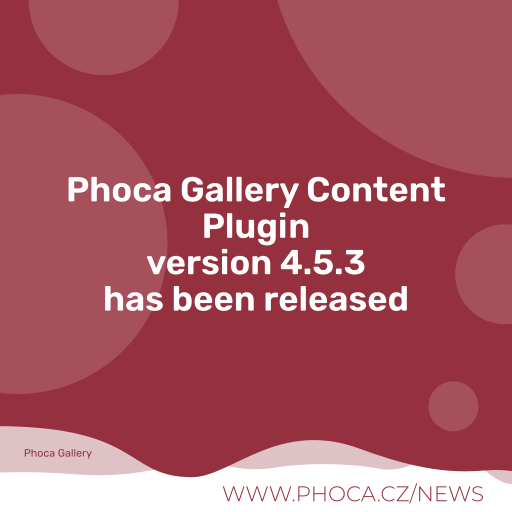
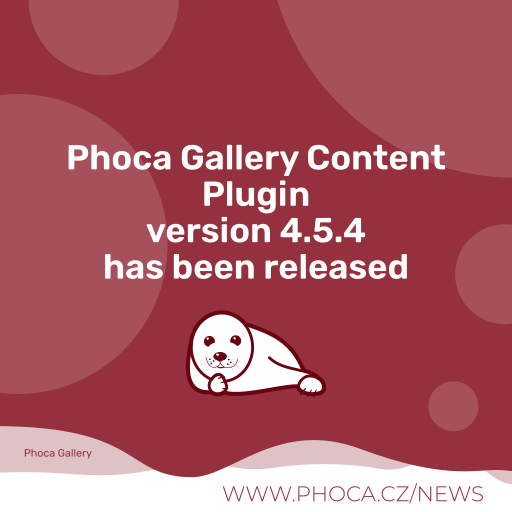
4.5.4

Changed region(s): [[0.125, 0.2812, 0.875, 0.7812]]

diff --git a/phocagallery.php b/phocagallery.php
@@ -12,6 +12,7 @@
 use Joomla\CMS\Component\ComponentHelper;
 use Joomla\CMS\Factory;
 use Joomla\CMS\HTML\HTMLHelper;
+use Joomla\CMS\Language\Text;
 use Joomla\CMS\Layout\FileLayout;
 use Joomla\CMS\Router\Route;
 use Joomla\CMS\Uri\Uri;
@@ -66,7 +67,7 @@ class plgContentPhocaGallery extends JPlugin
 
         $db       = Factory::getDBO();
         $document = Factory::getDocument();
-        $user		= JFactory::getUser();
+        $user		= Factory::getUser();
         //$component	= 'com_phocaphoto';
         //$paramsC		= JComponentHelper::getParams($component) ;
         //$param		= (int)$this->params->get( 'medium_image_width', 100 );
@@ -125,6 +126,7 @@ class plgContentPhocaGallery extends JPlugin
                 $view = '';
                 $id   = 0;
                 $max  = 0;
+                $imageid				= 0;
                 $limitstart = 0;
                 $limitcount = 0;
                 $imageordering = 1;
@@ -150,6 +152,7 @@ class plgContentPhocaGallery extends JPlugin
                     if ($values[0] == 'view') {                 $view = $values[1];}
                     else if ($values[0] == 'id') {              $id = $values[1];}
                     else if ($values[0] == 'categoryid') {      $id = $values[1];}// Backward compatibility - categoryid is alias for id
+                    else if($values[0]=='imageid')			{$imageid				= $values[1];}
                     else if ($values[0] == 'max') {             $max = $values[1];}
                     else if ($values[0] == 'limitstart') {             $limitstart = $values[1];}
                     else if ($values[0] == 'limitcount') {             $limitcount = $values[1];}
@@ -348,9 +351,9 @@ class plgContentPhocaGallery extends JPlugin
 
                                     $data_outcome->rightdisplaykey				= $rightDisplayKey;
 
-                                    if (isset($v->image_id) && $item->image_id > 0) {
+                                    if (isset($v->image_id) && $v->image_id > 0) {
                                         // User has selected image in category edit
-                                        $selectedImg = PhocaGalleryImageFront::setFileNameByImageId((int)$item->image_id);
+                                        $selectedImg = PhocaGalleryImageFront::setFileNameByImageId((int)$v->image_id);
 
 
                                         if (isset($selectedImg->filename) && ($selectedImg->filename != '' && $selectedImg->filename != '-')) {
@@ -501,8 +504,16 @@ class plgContentPhocaGallery extends JPlugin
                     $limit = '';
                     $where = '';
 
+                    // Only one image
+                    if ((int)$imageid > 0) {
+                        $where = ' AND a.id = '. $imageid;
+                    }
+
                     // Max is the limit, if limitcount is smaller than max, use the limitcount
                     if ((int)$limitcount < (int)$max) {
+                        $max = $limitcount;
+                    }
+                    if ((int)$limitcount > 0 && (int)$max == 0) {
                         $max = $limitcount;
                     }
 
@@ -510,9 +521,9 @@ class plgContentPhocaGallery extends JPlugin
                         if ($max > 0) {
                             $limit = ' LIMIT '.(int)$limitstart.',' . (int)$max;
                         }
-                        $where = ' AND a.catid = ' . (int)$id;
+                        $where .= ' AND a.catid = ' . (int)$id;
                     } else if ($view == 'image') {
-                        $where = ' AND a.id =' . (int)$id;
+                        $where .= ' AND a.id =' . (int)$id;
                     } else {
                         if ($max > 0) {
                             $limit = ' LIMIT '.(int)$limitstart.',' . (int)$max;
@@ -544,6 +555,8 @@ class plgContentPhocaGallery extends JPlugin
                         //require_once( JPATH_ADMINISTRATOR.'/components/com_phocaphoto/helpers/phocaphoto.php' );
                         //$path = PhocaPhotoHelper::getPath();
 
+
+
                         if ((int)$this->_plugin_number_category_view < 2) {
                             HtmlHelper::_('jquery.framework', false);
 
@@ -559,9 +572,16 @@ class plgContentPhocaGallery extends JPlugin
                                 $document->addScriptDeclaration($js);
                             } else {*/
 
-                            $document->addStyleSheet(Uri::root(true) . '/media/com_phocagallery/js/photoswipe/css/photoswipe.css');
-                            $document->addStyleSheet(Uri::root(true) . '/media/com_phocagallery/js/photoswipe/css/default-skin/default-skin.css');
-                            $document->addStyleSheet(Uri::root(true) . '/media/com_phocagallery/js/photoswipe/css/photoswipe-style.css');
+                            //$document->addStyleSheet(Uri::root(true) . '/media/com_phocagallery/js/photoswipe/css/photoswipe.css');
+                            //$document->addStyleSheet(Uri::root(true) . '/media/com_phocagallery/js/photoswipe/css/default-skin/default-skin.css');
+                            //$document->addStyleSheet(Uri::root(true) . '/media/com_phocagallery/js/photoswipe/css/photoswipe-style.css');
+
+                            $wa = $document->getWebAssetManager();
+		                    $wa->registerAndUseStyle('plg_content_phocagallery.photoswipe', 'media/com_phocagallery/js/photoswipe/css/photoswipe.css', array('version' => 'auto'));
+                            $wa->registerAndUseStyle('plg_content_phocagallery.photoswipe.default', 'media/com_phocagallery/js/photoswipe/css/default-skin/default-skin.css', array('version' => 'auto'));
+                            $wa->registerAndUseStyle('plg_content_phocagallery.photoswipe.style', 'media/com_phocagallery/js/photoswipe/css/photoswipe-style.css', array('version' => 'auto'));
+
+
                             /*}*/
                         }
 
@@ -762,7 +782,8 @@ class plgContentPhocaGallery extends JPlugin
 
                         if ($i == ($count_matches - 1) && $detail_window == 1) {
                             // Must be at the end
-                            $o .= PhocaGalleryRenderDetailWindow::loadPhotoswipeBottom(1, 1);
+                            $o .= $this->loadPhotoswipeBottomPlugin(1, 1);
+
                         }
                     }
 
@@ -782,6 +803,9 @@ class plgContentPhocaGallery extends JPlugin
 
                     // Max is the limit, if limitcount is smaller than max, use the limitcount
                     if ((int)$limitcount < (int)$max) {
+                        $max = $limitcount;
+                    }
+                    if ((int)$limitcount > 0 && (int)$max == 0) {
                         $max = $limitcount;
                     }
 
@@ -838,9 +862,14 @@ class plgContentPhocaGallery extends JPlugin
                                 $document->addScriptDeclaration($js);
                             } else {*/
 
-                            $document->addStyleSheet(Uri::root(true) . '/media/com_phocagallery/js/photoswipe/css/photoswipe.css');
-                            $document->addStyleSheet(Uri::root(true) . '/media/com_phocagallery/js/photoswipe/css/default-skin/default-skin.css');
-                            $document->addStyleSheet(Uri::root(true) . '/media/com_phocagallery/js/photoswipe/css/photoswipe-style.css');
+                            //$document->addStyleSheet(Uri::root(true) . '/media/com_phocagallery/js/photoswipe/css/photoswipe.css');
+                           // $document->addStyleSheet(Uri::root(true) . '/media/com_phocagallery/js/photoswipe/css/default-skin/default-skin.css');
+                            //$document->addStyleSheet(Uri::root(true) . '/media/com_phocagallery/js/photoswipe/css/photoswipe-style.css');
+                            $wa = $document->getWebAssetManager();
+		                    $wa->registerAndUseStyle('plg_content_phocagallery.photoswipe', 'media/com_phocagallery/js/photoswipe/css/photoswipe.css', array('version' => 'auto'));
+                            $wa->registerAndUseStyle('plg_content_phocagallery.photoswipe.default', 'media/com_phocagallery/js/photoswipe/css/default-skin/default-skin.css', array('version' => 'auto'));
+                            $wa->registerAndUseStyle('plg_content_phocagallery.photoswipe.style', 'media/com_phocagallery/js/photoswipe/css/photoswipe-style.css', array('version' => 'auto'));
+
                             /*}*/
                         }
 
@@ -1039,7 +1068,8 @@ class plgContentPhocaGallery extends JPlugin
 
                         if ($i == ($count_matches - 1) && $detail_window == 1) {
                             // Must be at the end
-                            $o .= PhocaGalleryRenderDetailWindow::loadPhotoswipeBottom(1, 1);
+
+                            $o .= $this->loadPhotoswipeBottomPlugin(1, 1);
                         }
                     }
 
@@ -1056,6 +1086,115 @@ class plgContentPhocaGallery extends JPlugin
             return true;
         }
     }
+
+
+    public function loadPhotoswipeBottomPlugin($forceSlideshow = 0, $forceSlideEffect = 0) {
+
+		//$paramsC 				= ComponentHelper::getParams('com_phocagallery') ;
+		$photoswipe_slideshow	= 1;//$paramsC->get( 'photoswipe_slideshow', 1 );
+		$photoswipe_slide_effect= 1;//$paramsC->get( 'photoswipe_slide_effect', 0 );
+
+
+		if ($forceSlideshow == 1) {
+            $photoswipe_slideshow = 1;
+        }
+		if ($forceSlideEffect == 1) {
+		    $photoswipe_slide_effect = 1;
+        }
+
+
+		$o = '<!-- Root element of PhotoSwipe. Must have class pswp. -->
+<div class="pswp" tabindex="-1" role="dialog" aria-hidden="true">
+
+    <!-- Background of PhotoSwipe.
+         It\'s a separate element, as animating opacity is faster than rgba(). -->
+    <div class="pswp__bg"></div>
+
+    <!-- Slides wrapper with overflow:hidden. -->
+    <div class="pswp__scroll-wrap">
+
+        <!-- Container that holds slides. PhotoSwipe keeps only 3 slides in DOM to save memory. -->
+        <!-- don\'t modify these 3 pswp__item elements, data is added later on. -->
+        <div class="pswp__container">
+            <div class="pswp__item"></div>
+            <div class="pswp__item"></div>
+            <div class="pswp__item"></div>
+        </div>
+
+        <!-- Default (PhotoSwipeUI_Default) interface on top of sliding area. Can be changed. -->
+        <div class="pswp__ui pswp__ui--hidden">
+
+            <div class="pswp__top-bar">
+
+                <!--  Controls are self-explanatory. Order can be changed. -->
+
+                <div class="pswp__counter"></div>
+
+                <button class="pswp__button pswp__button--close" title="'.Text::_('COM_PHOCAGALLERY_CLOSE').'"></button>
+
+                <button class="pswp__button pswp__button--share" title="'.Text::_('COM_PHOCAGALLERY_SHARE').'"></button>
+
+                <button class="pswp__button pswp__button--fs" title="'.Text::_('COM_PHOCAGALERY_TOGGLE_FULLSCREEN').'"></button>
+
+                <button class="pswp__button pswp__button--zoom" title="'.Text::_('COM_PHOCAGALLERY_ZOOM_IN_OUT').'"></button>';
+
+				if ($photoswipe_slideshow == 1) {
+					$o .= '<!-- custom slideshow button: -->
+					<button class="pswp__button pswp__button--playpause" title="'.Text::_('COM_PHOCAGALLERY_PLAY_SLIDESHOW').'"></button>
+					<span id="phTxtPlaySlideshow" style="display:none">'.Text::_('COM_PHOCAGALLERY_PLAY_SLIDESHOW').'</span>
+					<span id="phTxtPauseSlideshow" style="display:none">'.Text::_('COM_PHOCAGALLERY_PAUSE_SLIDESHOW').'</span>';
+				}
+
+                $o .= '<!-- Preloader -->
+                <!-- element will get class pswp__preloader--active when preloader is running -->
+                <div class="pswp__preloader">
+                    <div class="pswp__preloader__icn">
+                      <div class="pswp__preloader__cut">
+                        <div class="pswp__preloader__donut"></div>
+                      </div>
+                    </div>
+                </div>
+            </div>
+
+            <div class="pswp__share-modal pswp__share-modal--hidden pswp__single-tap">
+                <div class="pswp__share-tooltip"></div> 
+            </div>
+
+            <button class="pswp__button pswp__button--arrow--left" title="'.Text::_('COM_PHOCAGALLERY_PREVIOUS').'">
+            </button>
+
+            <button class="pswp__button pswp__button--arrow--right" title="'.Text::_('COM_PHOCAGALLERY_NEXT').'">
+            </button>
+
+            <div class="pswp__caption">
+                <div class="pswp__caption__center"></div>
+            </div>
+
+          </div>
+
+        </div>
+
+</div>';
+
+
+                $wa = Factory::getDocument()->getWebAssetManager();
+                $wa->registerAndUseScript('plg_content_phocagallery.photoswipe', 'media/com_phocagallery/js/photoswipe/js/photoswipe.min.js', array('version' => 'auto'), ['defer' => true]);
+                $wa->registerAndUseScript('plg_content_phocagallery.photoswipe.default', 'media/com_phocagallery/js/photoswipe/js/photoswipe-ui-default.min.js', array('version' => 'auto'), ['defer' => true]);
+
+
+//$o .=   '<script src="'.Uri::root(true).'/media/com_phocagallery/js/photoswipe/js/photoswipe.min.js"></script>'. "\n"
+//		.'<script src="'.Uri::root(true).'/media/com_phocagallery/js/photoswipe/js/photoswipe-ui-default.min.js"></script>'. "\n";
+
+if ($photoswipe_slide_effect == 1) {
+	//$o .= '<script src="'.Uri::root(true).'/media/com_phocagallery/js/photoswipe/js/photoswipe-initialize-ratio.js"></script>'. "\n";
+    $wa->registerAndUseScript('plg_content_phocagallery.photoswipe.initialize.ratio', 'media/com_phocagallery/js/photoswipe/js/photoswipe-initialize-ratio.js', array('version' => 'auto'), ['defer' => true]);
+} else {
+	//$o .= '<script src="'.Uri::root(true).'/media/com_phocagallery/js/photoswipe/js/photoswipe-initialize.js"></script>'. "\n";
+    $wa->registerAndUseScript('plg_content_phocagallery.photoswipe.initialize.ratio', 'media/com_phocagallery/js/photoswipe/js/photoswipe-initialize.js', array('version' => 'auto'), ['defer' => true]);
+}
+
+		return $o;
+	}
 }
 
 ?>

diff --git a/README.MD b/README.MD
@@ -58,7 +58,7 @@ Phoca Gallery Content plugin is a Joomla! plugin which displays categories or im
 
 ## Version (Joomla! 4.x)
 
-4.5.3
+4.5.4
 
 
 
